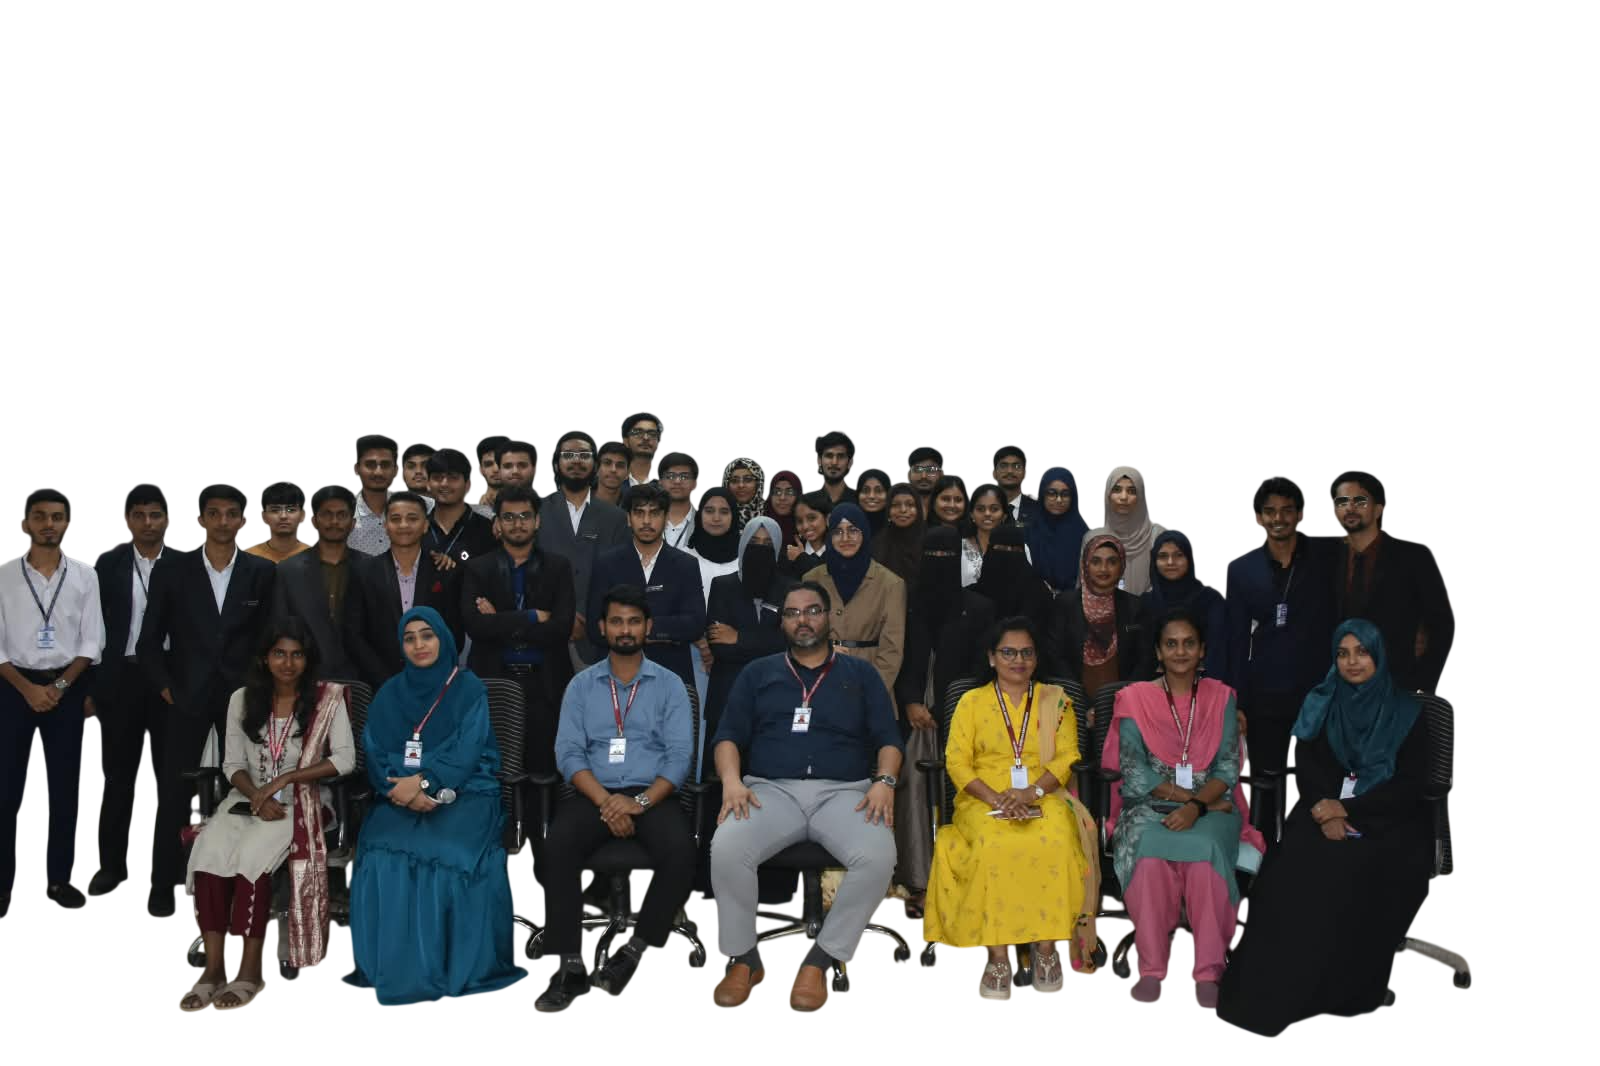
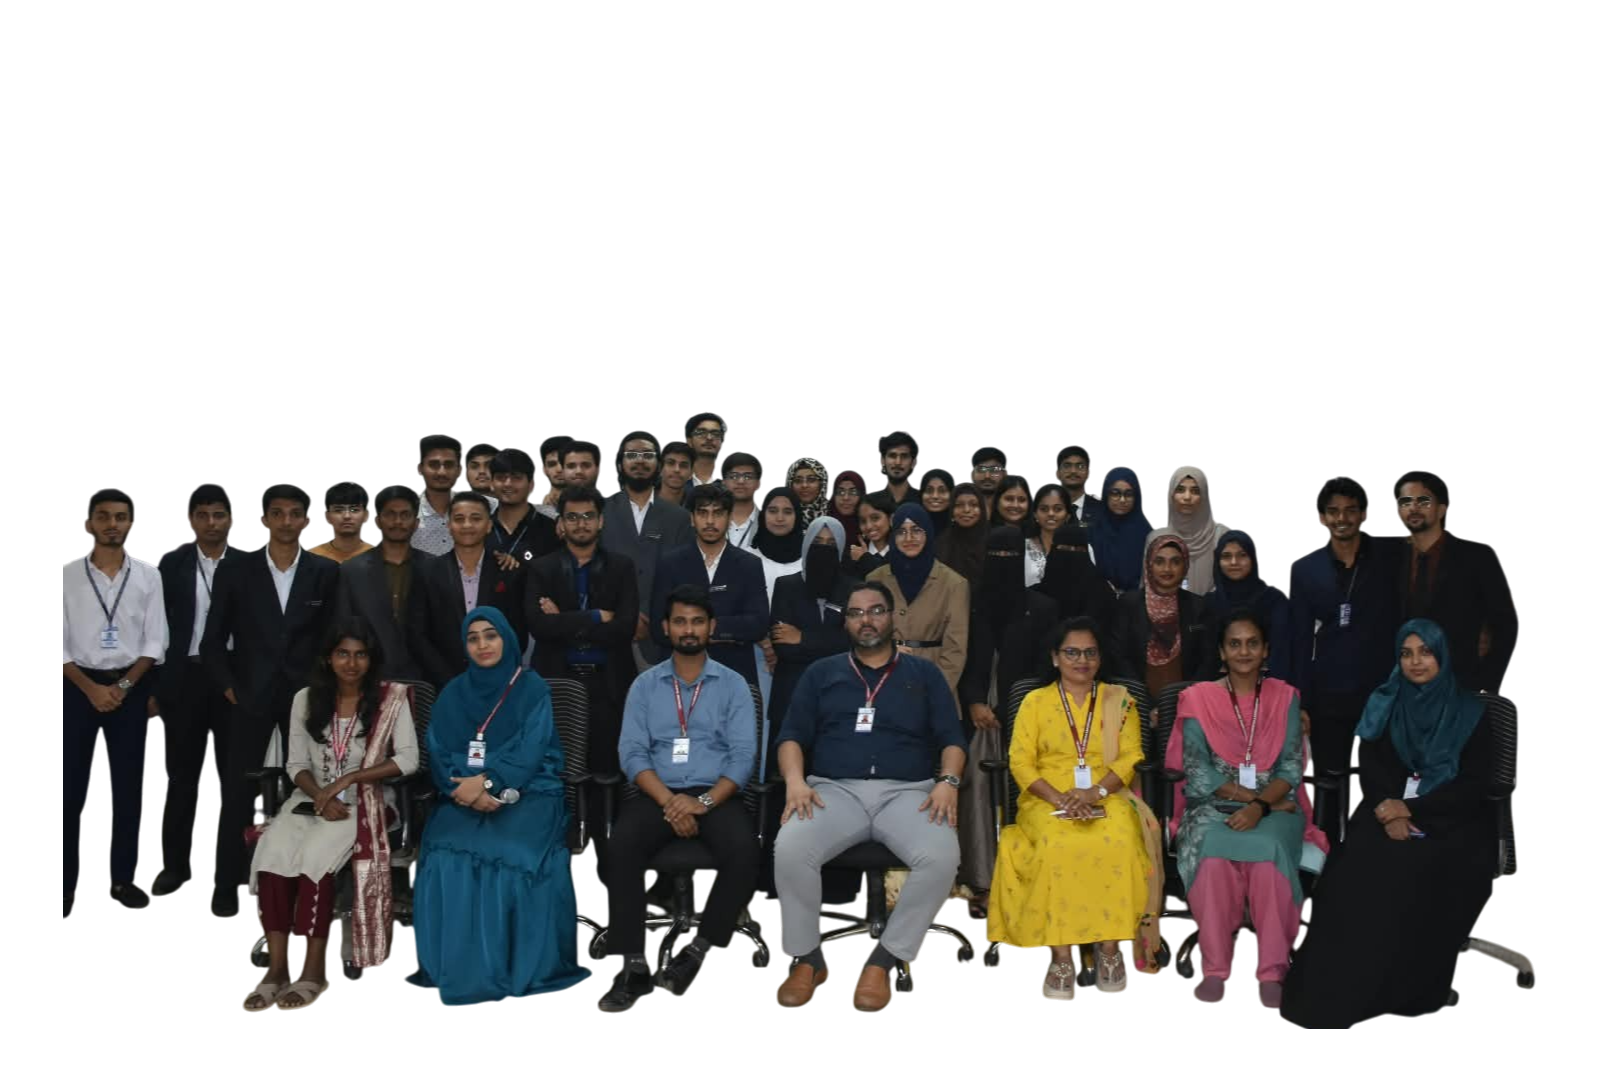
..

diff --git a/src/pages/Team_page.jsx b/src/pages/Team_page.jsx
@@ -1,4 +1,4 @@
-import { useCallback, useEffect, useState } from 'react';
+import { useCallback, useEffect, useRef, useState } from 'react';
 import { motion } from 'framer-motion';
 import { FaLinkedinIn } from 'react-icons/fa';
 import Footer from '../components/Footer';
@@ -750,6 +750,8 @@ function FoundingMembersSection() {
   const [hoveredId, setHoveredId] = useState(null);
   const [activeIndex, setActiveIndex] = useState(0);
   const [isPaused, setIsPaused] = useState(false);
+  const swipeStartX = useRef(null);
+  const suppressClick = useRef(false);
 
   const count = FOUNDING_MEMBERS.length;
   const step = useCarouselStep();
@@ -782,11 +784,41 @@ function FoundingMembersSection() {
 
   const handleTap = useCallback(
     (member, index) => {
+      if (suppressClick.current) {
+        suppressClick.current = false;
+        return;
+      }
+
       setActiveIndex(index);
       setHoveredId(member.id);
       setIsPaused(true);
     },
     []
+  );
+
+  const handleTouchStart = useCallback((event) => {
+    swipeStartX.current = event.touches[0].clientX;
+  }, []);
+
+  const handleTouchEnd = useCallback(
+    (event) => {
+      if (swipeStartX.current === null) return;
+
+      const distance = event.changedTouches[0].clientX - swipeStartX.current;
+      swipeStartX.current = null;
+
+      if (Math.abs(distance) < 40) return;
+
+      suppressClick.current = true;
+      setHoveredId(null);
+      setIsPaused(false);
+      setActiveIndex((current) =>
+        distance < 0
+          ? (current + 1) % count
+          : (current - 1 + count) % count
+      );
+    },
+    [count]
   );
 
   return (
@@ -824,7 +856,9 @@ function FoundingMembersSection() {
             visible: { opacity: 1, y: 0, scale: 1 },
           }}
           transition={{ duration: 0.75, ease: [0.22, 1, 0.36, 1] }}
-          className="relative mx-auto flex h-[246px] max-w-[340px] items-center justify-center overflow-hidden sm:h-72 sm:max-w-[900px] sm:overflow-visible"
+          className="relative mx-auto flex h-[226px] max-w-[320px] touch-pan-y items-center justify-center overflow-hidden sm:h-72 sm:max-w-[900px] sm:overflow-visible"
+          onTouchStart={handleTouchStart}
+          onTouchEnd={handleTouchEnd}
         >
 
           {FOUNDING_MEMBERS.map(
@@ -846,7 +880,7 @@ function FoundingMembersSection() {
                 <div
                   key={member.id}
                   className={cn(
-                    'group absolute h-[220px] w-[165px] cursor-pointer overflow-hidden rounded-md bg-zinc-200 shadow-lg transition-all duration-500 ease-out dark:bg-[#15111f] sm:h-64 sm:w-48',
+                    'group absolute h-[200px] w-[150px] cursor-pointer overflow-hidden rounded-md bg-zinc-200 shadow-lg transition-all duration-500 ease-out dark:bg-[#15111f] sm:h-64 sm:w-48',
 
                     active &&
                       'ring-2 ring-[#241052]/20'
